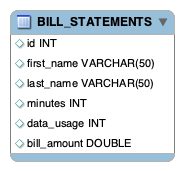
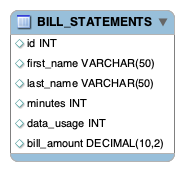
Updated docs so that examples:
* All have a teardown step
* All use the same database
* Added Property usage
* Fixed some bugs
* Updated image to reflect changes in schema

Changed region(s): [[0.4891, 0.7895, 0.8967, 0.8772]]

diff --git a/content/documentation/pages/4-batch-developer-guides/2-batch/1-simple-task.md b/content/documentation/pages/4-batch-developer-guides/2-batch/1-simple-task.md
@@ -59,7 +59,7 @@ Another option instead of using the UI to initialize your project you can do the
    2. Start the MySql
 
       ```bash
-      $ docker run -p 3306:3306 --name some-mysql -e MYSQL_ROOT_PASSWORD=password  -e MYSQL_DATABASE=practice -d mysql:5.7.24
+      $ docker run -p 3306:3306 --name mysql -e MYSQL_ROOT_PASSWORD=password  -e MYSQL_DATABASE=task -d mysql:5.7.25
       ```
 
 ### Biz Logic
@@ -129,17 +129,87 @@ Deploy to local, Cloud Foundry and Kubernetes
 1. Now let’s execute the application with the configurations required to create the "BILL_STATEMENTS" table in the MySql database.
    To configure the execution of the billsetuptask application utilize the following arguments:
 
-   1. _spring.datasource.url_ - set the URL to your database instance. In the sample below we are connecting to a mysql `practice` database on our local machine at port 3306.
+   1. _spring.datasource.url_ - set the URL to your database instance. In the sample below we are connecting to a mysql `task` database on our local machine at port 3306.
    1. _spring.datasource.username_ - the user name to be used for the MySql database. In the sample below it is `root`
    1. _spring.datasource.password_ - the password to be used for the MySql database. In the sample below it is `password`
    1. _spring.datasource.driverClassName_ - The driver to use to connect to the MySql database. In the sample below it is `com.mysql.jdbc.Driver'
 
    ```bash
-   $ java -jar target/billsetuptask-0.0.1-SNAPSHOT.jar \
-   --spring.datasource.url=jdbc:mysql://localhost:3306/practice?useSSL=false \
+   $ java -jar target/billsetuptask-1.0.0.BUILD-SNAPSHOT.jar \
+   --spring.datasource.url=jdbc:mysql://localhost:3306/task?useSSL=false \
    --spring.datasource.username=root \
    --spring.datasource.password=password \
    --spring.datasource.driverClassName=com.mysql.jdbc.Driver
+   ```
+
+#### Setting the application name for Task Execution
+
+Spring Cloud Task records all task executions to a table called TASK_EXECUTION.
+Here is some of the information that is recorded by Spring Cloud Task:
+
+- START_TIME - The time the task execution started
+- END_TIME - The time the task execution completed
+- TASK_NAME - The name associated with the task execution
+- EXIT_CODE - The exit code that was returned by the task execution
+- EXIT_MESSAGE - The exit message that was returned for the execution
+- ERROR_MESSAGE - The error message that was returned for the execution
+- EXTERNAL_EXECUTION_ID - An id to be associated with the task execution
+
+By default the `TASK_NAME` is "Bill Setup Task".
+
+NOTE: Our sample project is setting the task name in the application.properties file. By default Spring Cloud Task will set the task name to "application".
+
+Using the instructions below query the TASK_EXECUTION table:
+
+<!-- Rolling my own to disable erroneous formating -->
+<div class="gatsby-highlight" data-language="bash">
+<pre class="language-bash"><code>$ docker exec -it mysql bash -l
+# mysql -u root -ppassword
+mysql&gt; select * from task.TASK_EXECUTION;
+</code></pre></div>
+
+The results will look something like this:
+
+```
+| TASK_EXECUTION_ID | START_TIME          | END_TIME            | TASK_NAME       | EXIT_CODE | EXIT_MESSAGE | ERROR_MESSAGE | LAST_UPDATED        | EXTERNAL_EXECUTION_ID | PARENT_EXECUTION_ID |
+|-------------------|---------------------|---------------------|-----------------|-----------|--------------|---------------|---------------------|-----------------------|---------------------|
+|                 1 | 2019-04-23 18:10:57 | 2019-04-23 18:10:57 | Bill Setup Task |         0 | NULL         | NULL          | 2019-04-23 18:10:57 | NULL                  |                NULL |
+```
+
+Spring Cloud Task allows us to change this setting using the `spring.cloud.task.name`. To do this we will add that property to our next execution as follows:
+
+```bash
+$ java -jar target/billsetuptask-1.0.0.BUILD-SNAPSHOT.jar \
+--spring.datasource.url=jdbc:mysql://localhost:3306/task?useSSL=false \
+--spring.datasource.username=root \
+--spring.datasource.password=password \
+--spring.datasource.driverClassName=com.mysql.jdbc.Driver \
+--spring.cloud.task.name=BillSetupTest1
+```
+
+Now when you query the table you will see that the last task execution in the query now has the name "BillSetupTest1".
+
+#### Cleanup
+
+To stop and remove the mysql container running in the docker instance:
+
+1. Execute the following to get the container id.
+
+   ```bash
+   $ docker ps
+   ```
+
+   You should get a result that looks something like this:
+
+   ```bash
+   CONTAINER ID        IMAGE               COMMAND                  CREATED             STATUS              PORTS                               NAMES
+   c3ef4c769c33        mysql:5.7.25        "docker-entrypoint.s…"   6 days ago          Up 5 days           0.0.0.0:3306->3306/tcp, 33060/tcp   mysql
+   ```
+
+1. Using the `CONTAINER ID` above remove the container by executing the command below:
+
+   ```bash
+   docker rm c3ef4c769c33
    ```
 
 ### Cloud Foundry

diff --git a/content/documentation/pages/4-batch-developer-guides/2-batch/2-spring-batch.md b/content/documentation/pages/4-batch-developer-guides/2-batch/2-spring-batch.md
@@ -61,7 +61,7 @@ Another option instead of using the UI to initialize your project you can do the
    2. Start the MySql
 
       ```bash
-      $ docker run -p 3306:3306 --name some-mysql -e MYSQL_ROOT_PASSWORD=password  -e MYSQL_DATABASE=practice -d mysql:5.7.24
+      $ docker run -p 3306:3306 --name some-mysql -e MYSQL_ROOT_PASSWORD=password  -e MYSQL_DATABASE=task -d mysql:5.7.25
       ```
 
 ### Biz Logic
@@ -248,11 +248,11 @@ Deploy to local, Cloud Foundry and Kubernetes
     From a command line change directory to the location of your project and build the project using maven:
     `mvn clean package`.
 
-2)  Now let’s execute the application with the configurations required to process the usage information in the database.
+2.  Now let’s execute the application with the configurations required to process the usage information in the database.
 
     To configure the execution of the billrun application utilize the following arguments:
 
-    1. _spring.datasource.url_ - set the URL to your database instance. In the sample below we are connecting to a mysql `practice` database on our local machine at port 3306.
+    1. _spring.datasource.url_ - set the URL to your database instance. In the sample below we are connecting to a mysql `task` database on our local machine at port 3306.
     1. _spring.datasource.username_ - the user name to be used for the MySql database. In the sample below it is `root`
     1. _spring.datasource.password_ - the password to be used for the MySql database. In the sample below it is `password`
     1. _spring.datasource.driverClassName_ - The driver to use to connect to the MySql database. In the sample below it is `com.mysql.jdbc.Driver'
@@ -260,14 +260,58 @@ Deploy to local, Cloud Foundry and Kubernetes
     1. _spring.batch.initialize-schema_ - initializes the database with the tables required for Spring Batch. In the sample below we state that we `always` want to do this. This will not overwrite the tables if they already exist.
 
     ```bash
-    $ java -jar target/billrun-0.0.1-SNAPSHOT.jar \
-    --spring.datasource.url=jdbc:mysql://localhost:3306/practice?useSSL=false \
+    $ java -jar target/billrun-1.0.0.BUILD-SNAPSHOT.jar \
+    --spring.datasource.url=jdbc:mysql://localhost:3306/task?useSSL=false \
     --spring.datasource.username=root \
     --spring.datasource.password=password \
     --spring.datasource.driverClassName=com.mysql.jdbc.Driver \
     --spring.datasource.initialization-mode=always \
     --spring.batch.initialize-schema=always
     ```
+
+3.  Log in to the `mysql` container to query the `BILL_STATEMENTS` table.
+    Get the name of the `mysql`pod using`kubectl get pods`, as shown above.
+    Then login:
+
+<!-- Rolling my own to disable erroneous formating -->
+<div class="gatsby-highlight" data-language="bash">
+<pre class="language-bash"><code>$ docker exec -it mysql bash -l
+# mysql -u root -ppassword
+mysql&gt; select * from task.BILL_STATEMENTS;
+</code></pre></div>
+
+The output should look something like:
+
+| id  | first_name | last_name | minutes | data_usage | bill_amount |
+| --- | ---------- | --------- | ------- | ---------- | ----------- |
+| 1   | jane       | doe       | 500     | 1000       | 6.00        |
+| 2   | john       | doe       | 550     | 1500       | 7.00        |
+| 3   | melissa    | smith     | 600     | 1550       | 7.55        |
+| 4   | michael    | smith     | 650     | 1500       | 8.00        |
+| 5   | mary       | jones     | 700     | 1500       | 8.50        |
+
+#### Cleanup
+
+To stop and remove the mysql container running in the docker instance:
+
+1. Execute the following to get the container id.
+
+   ```bash
+   $ docker ps
+   ```
+
+   You should get a result that looks something like this:
+
+   ```bash
+   CONTAINER ID        IMAGE               COMMAND                  CREATED             STATUS              PORTS                               NAMES
+   c3ef4c769c33        mysql:5.7.25        "docker-entrypoint.s…"   6 days ago          Up 5 days           0.0.0.0:3306->3306/tcp, 33060/tcp   mysql
+   ```
+
+1. Using the `CONTAINER ID` above remove the container by executing the command below:
+
+   ```bash
+   docker rm c3ef4c769c33
+   ```
 
 ### Cloud Foundry
 
